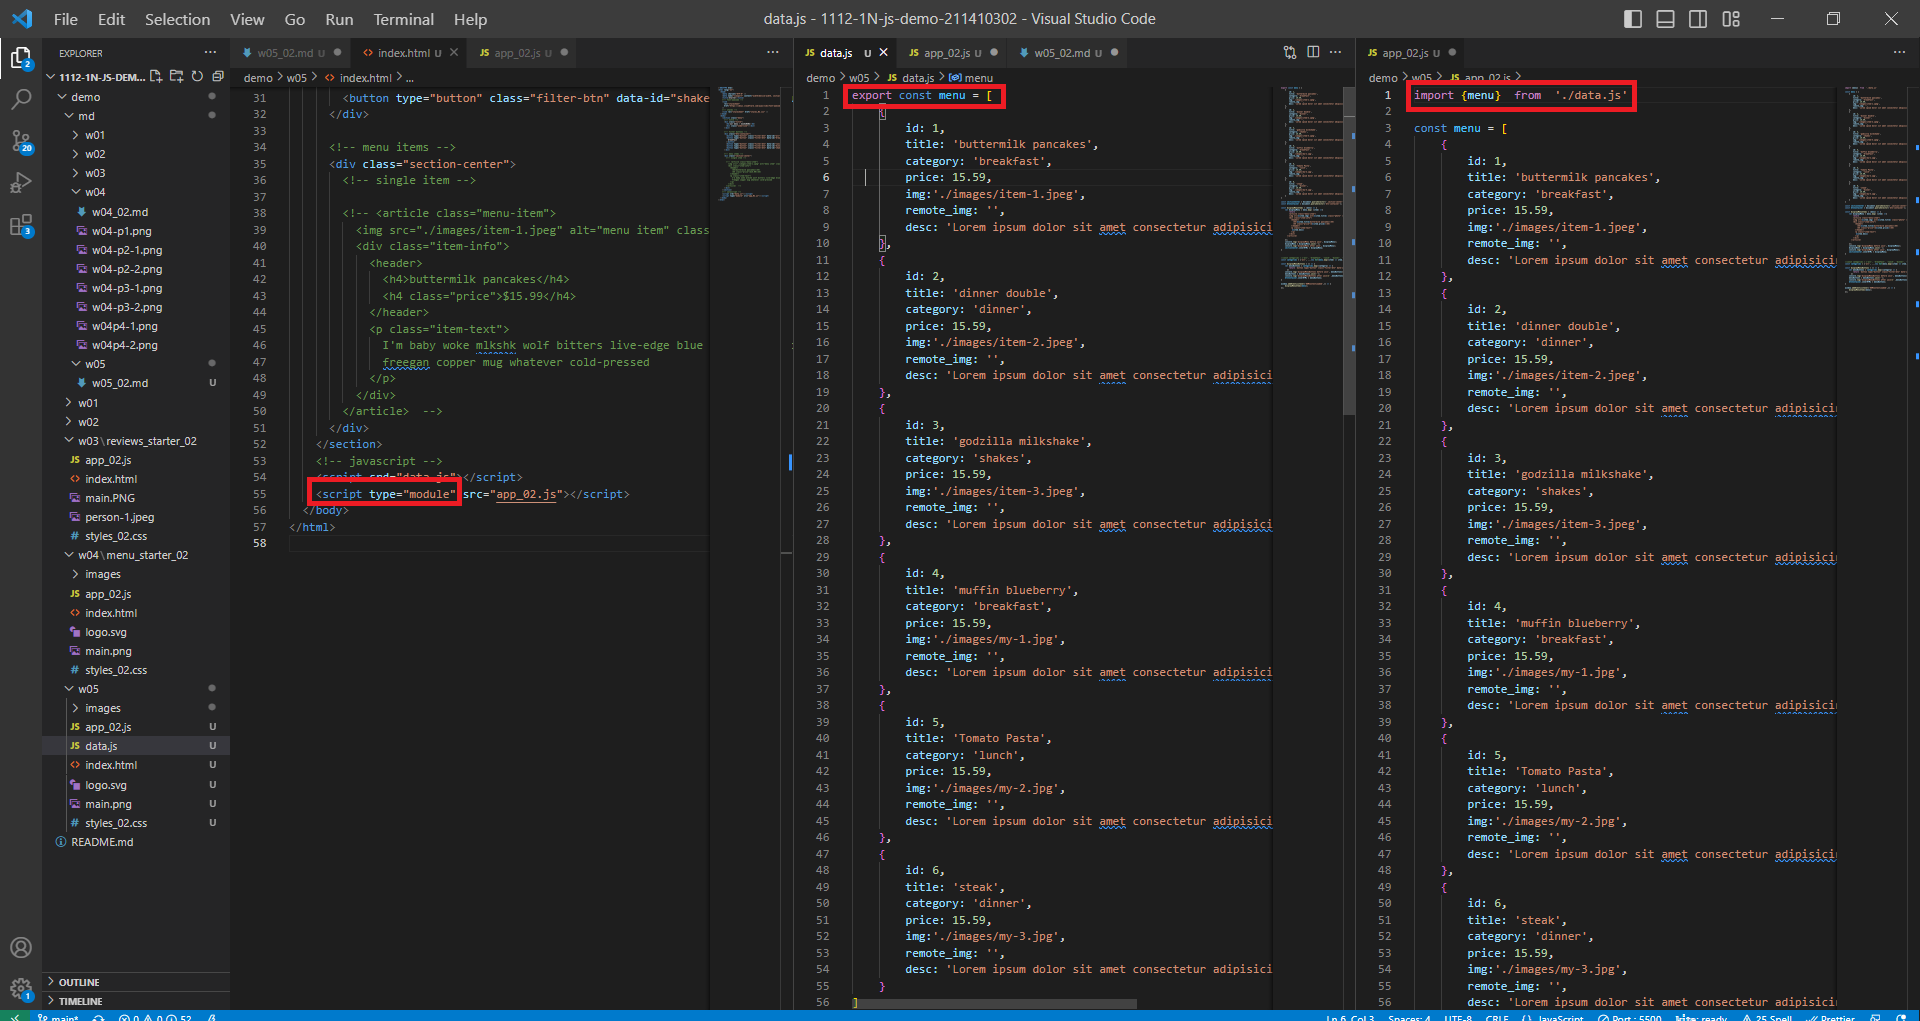
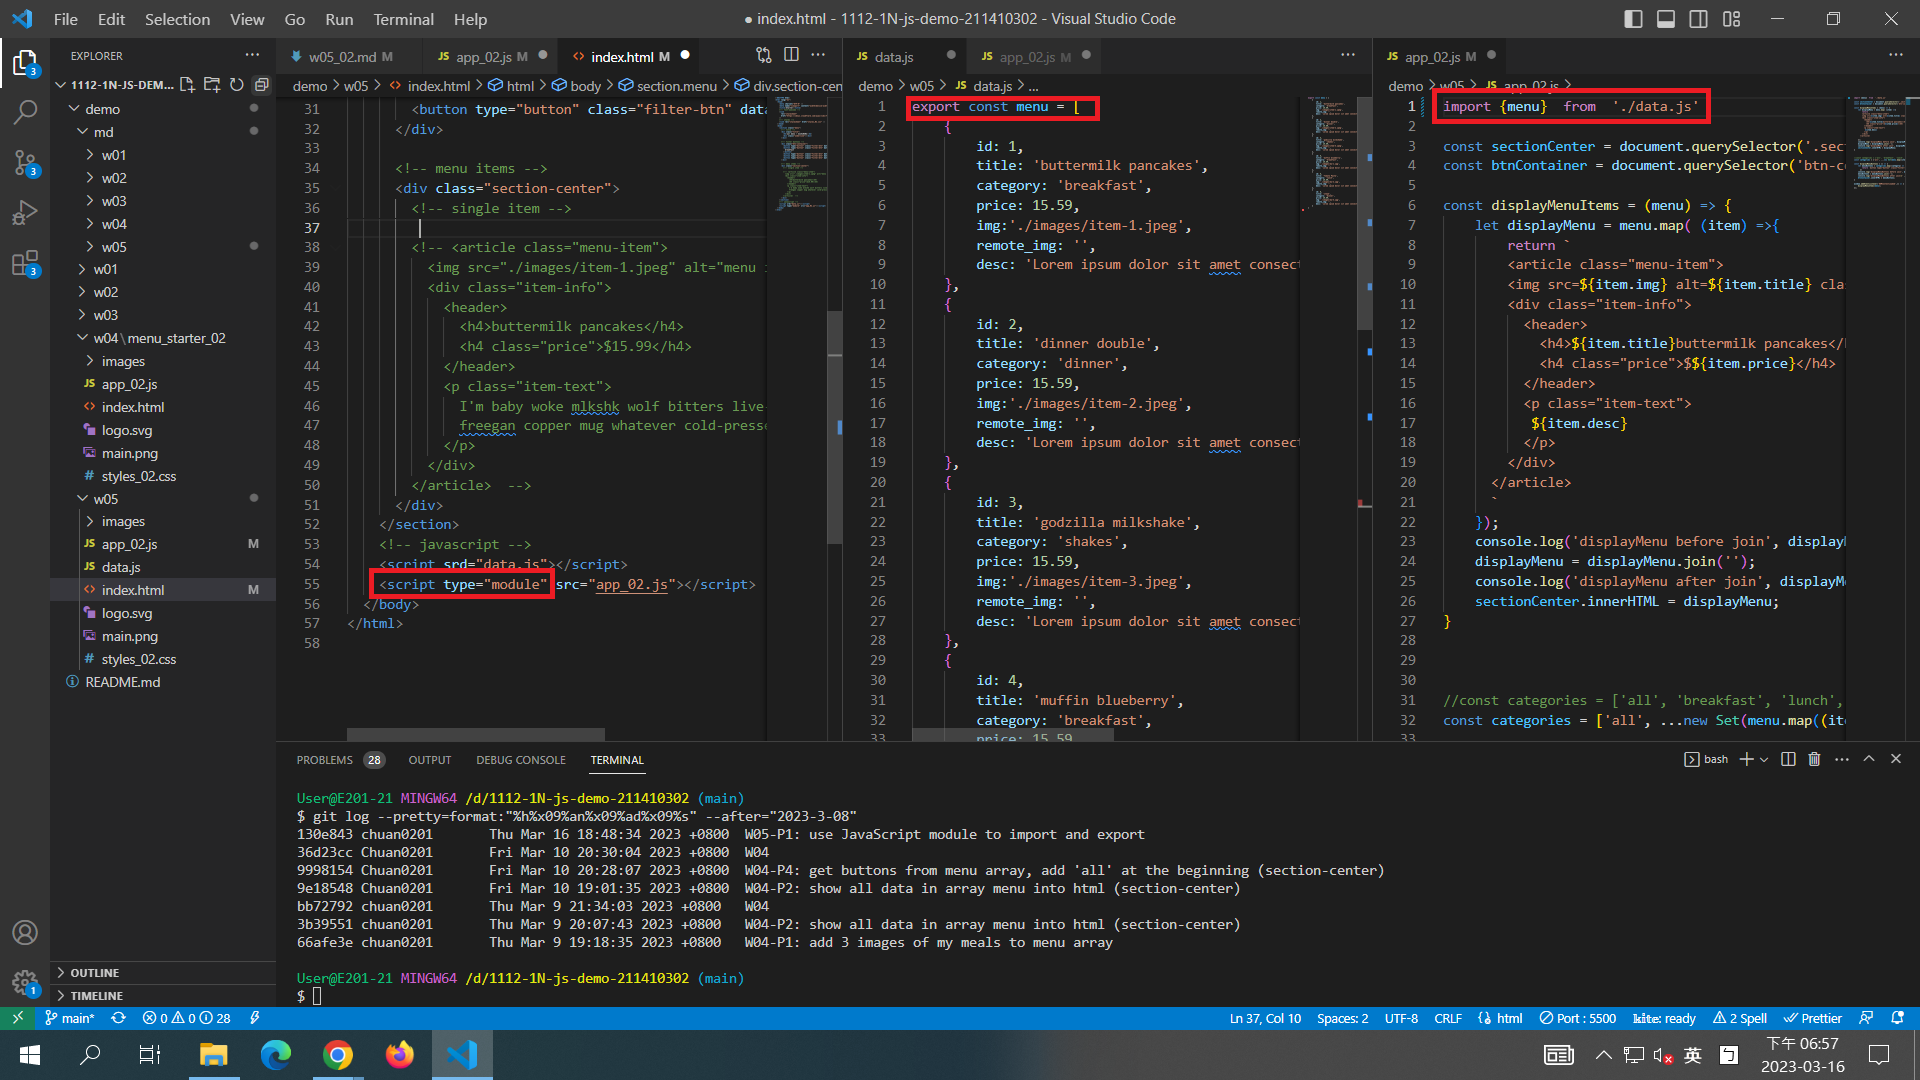
W05-P2: implement all filter buttons with all tests in console.log

diff --git a/demo/w05/app_02.js b/demo/w05/app_02.js
@@ -1,62 +1,7 @@
-const menu = [
-    {
-        id: 1,
-        title: 'buttermilk pancakes',
-        category: 'breakfast',
-        price: 15.59,
-        img:'./images/item-1.jpeg',
-        remote_img: '',
-        desc: 'Lorem ipsum dolor sit amet consectetur adipisicing elit. Nobis, corporis.',
-    },
-    {
-        id: 2,
-        title: 'dinner double',
-        category: 'dinner',
-        price: 15.59,
-        img:'./images/item-2.jpeg',
-        remote_img: '',
-        desc: 'Lorem ipsum dolor sit amet consectetur adipisicing elit. Nobis, corporis.',
-    },
-    {
-        id: 3,
-        title: 'godzilla milkshake',
-        category: 'shakes',
-        price: 15.59,
-        img:'./images/item-3.jpeg',
-        remote_img: '',
-        desc: 'Lorem ipsum dolor sit amet consectetur adipisicing elit. Nobis, corporis.',
-    },
-    {
-        id: 4,
-        title: 'muffin blueberry',
-        category: 'breakfast',
-        price: 15.59,
-        img:'./images/my-1.jpg',
-        remote_img: '',
-        desc: 'Lorem ipsum dolor sit amet consectetur adipisicing elit. Nobis, corporis.',
-    },
-    {
-        id: 5,
-        title: 'Tomato Pasta',
-        category: 'lunch',
-        price: 15.59,
-        img:'./images/my-2.jpg',
-        remote_img: '',
-        desc: 'Lorem ipsum dolor sit amet consectetur adipisicing elit. Nobis, corporis.',
-    },
-    {
-        id: 6,
-        title: 'steak',
-        category: 'dinner',
-        price: 15.59,
-        img:'./images/my-3.jpg',
-        remote_img: '',
-        desc: 'Lorem ipsum dolor sit amet consectetur adipisicing elit. Nobis, corporis.',
-    }
-]
+import {menu}  from  './data.js'
 
 const sectionCenter = document.querySelector('.section-center');
-const btnContainer = document.querySelector('btn-container');
+const btnContainer = document.querySelector('.btn-container');
 
 const displayMenuItems = (menu) => {
     let displayMenu = menu.map( (item) =>{
@@ -75,9 +20,9 @@ const displayMenuItems = (menu) => {
       </article> 
       `
     });
-    console.log('displayMenu before join', displayMenu);
+    // console.log('displayMenu before join', displayMenu);
     displayMenu = displayMenu.join('');
-    console.log('displayMenu after join', displayMenu);
+    // console.log('displayMenu after join', displayMenu);
     sectionCenter.innerHTML = displayMenu;
 }
 
@@ -88,14 +33,35 @@ const categories = ['all', ...new Set(menu.map((item) => item.category))];
 
 const displayMenuButtons = () => {
     let menuButtons = categories.map((category) => {
-        return `button type="button" class="filter-btn" date-id=${category}>${category}</button>`;
+        return `<button type="button" class="filter-btn" data-id=${category}>${category}</button>`;
       })
-    console.log('displayMenuButtons before join', menuButtons);
+    // console.log('displayMenuButtons before join', menuButtons);
     menuButtons = menuButtons.join('');
-    console.log('displayMenuButtons after join\n' ,menuButtons);
+    // console.log('displayMenuButtons after join\n' ,menuButtons);
     btnContainer.innerHTML = menuButtons;
+
+    const filterBtns = document.querySelectorAll('.filter-btn');
+    console.log('filterBtns', filterBtns);
+    filterBtns.forEach( (btn) => (
+        btn.addEventListener('click', (e) => {
+            console.log('data-id', e.currentTarget.dataset.id);
+            const category = e.currentTarget.dataset.id;
+            console.log('category', category)
+            const filterMenu = menu.filter( (item) => item.category === category);
+            console.log('filterMenu', filterMenu);
+            if(category === 'all'){
+                console.log('all', menu)
+                displayMenuItems(menu);
+            }else{
+                displayMenuItems(filterMenu);
+            }
+        })
+    ));
 }
+
+
 
 window.addEventListener('DOMContentLoaded',() => {
     displayMenuItems(menu);
+    displayMenuButtons();
 });

diff --git a/demo/w05/data.js b/demo/w05/data.js
@@ -55,47 +55,3 @@ export const menu = [
     }
 ]
 
-const sectionCenter = document.querySelector('.section-center');
-const btnContainer = document.querySelector('btn-container');
-
-const displayMenuItems = (menu) => {
-    let displayMenu = menu.map( (item) =>{
-        return `
-        <article class="menu-item">
-        <img src=${item.img} alt=${item.title} class="photo" />
-        <div class="item-info">
-          <header>
-            <h4>${item.title}buttermilk pancakes</h4>
-            <h4 class="price">$${item.price}</h4>
-          </header>
-          <p class="item-text">
-           ${item.desc}
-          </p>
-        </div>
-      </article> 
-      `
-    });
-    console.log('displayMenu before join', displayMenu);
-    displayMenu = displayMenu.join('');
-    console.log('displayMenu after join', displayMenu);
-    sectionCenter.innerHTML = displayMenu;
-}
-
-
-
-//const categories = ['all', 'breakfast', 'lunch', 'dinner', 'shake'];
-const categories = ['all', ...new Set(menu.map((item) => item.category))];
-
-const displayMenuButtons = () => {
-    let menuButtons = categories.map((category) => {
-        return `button type="button" class="filter-btn" date-id=${category}>${category}</button>`;
-      })
-    console.log('displayMenuButtons before join', menuButtons);
-    menuButtons = menuButtons.join('');
-    console.log('displayMenuButtons after join\n' ,menuButtons);
-    btnContainer.innerHTML = menuButtons;
-}
-
-window.addEventListener('DOMContentLoaded',() => {
-    displayMenuItems(menu);
-});

diff --git a/demo/w05/index.html b/demo/w05/index.html
@@ -22,13 +22,13 @@
 
       <!-- filter buttons -->
       <div class="btn-container">
-        <button type="button" class="filter-btn" data-id="all">all</button>
-        <button type="button" class="filter-btn" data-id="breakfast">
+        <!-- <button type="button" class="filter-btn" data-id="all">all</button> -->
+        <!-- <button type="button" class="filter-btn" data-id="breakfast">
           breakfast
         </button>
         <button type="button" class="filter-btn" data-id="lunch">lunch</button>
         <button type="button" class="filter-btn" data-id="dinner">dinner</button>
-        <button type="button" class="filter-btn" data-id="shakes">shakes</button> 
+        <button type="button" class="filter-btn" data-id="shakes">shakes</button>  -->
       </div>
 
       <!-- menu items -->

diff --git a/demo/md/w05/w05_02.md b/demo/md/w05/w05_02.md
@@ -1,1 +1,15 @@
 ### [Github URL](https://github.com/Chuan0201/1112-1N-js-demo-211410302.git)
+
+### W05-P1: use JavaScript module to import and export
+
+![w05-p1.png](https://yklkxuvilcamlqqnhytw.supabase.co/storage/v1/object/public/thu211410302/w05/w05-p1%20.png?t=2023-03-16T11%3A14%3A45.519Z)
+
+```
+130e843 chuan0201       Thu Mar 16 18:48:34 2023 +0800  W05-P1: use JavaScript module to import and export
+```
+
+### W05-P2: implement all filter buttons with all tests in console.log
+
+![w05-p2.png](https://yklkxuvilcamlqqnhytw.supabase.co/storage/v1/object/public/thu211410302/w05/w05-p2.png?t=2023-03-16T12%3A01%3A56.250Z)
+
+git log --pretty=format:"%h%x09%an%x09%ad%x09%s" --after="2023-3-08"
